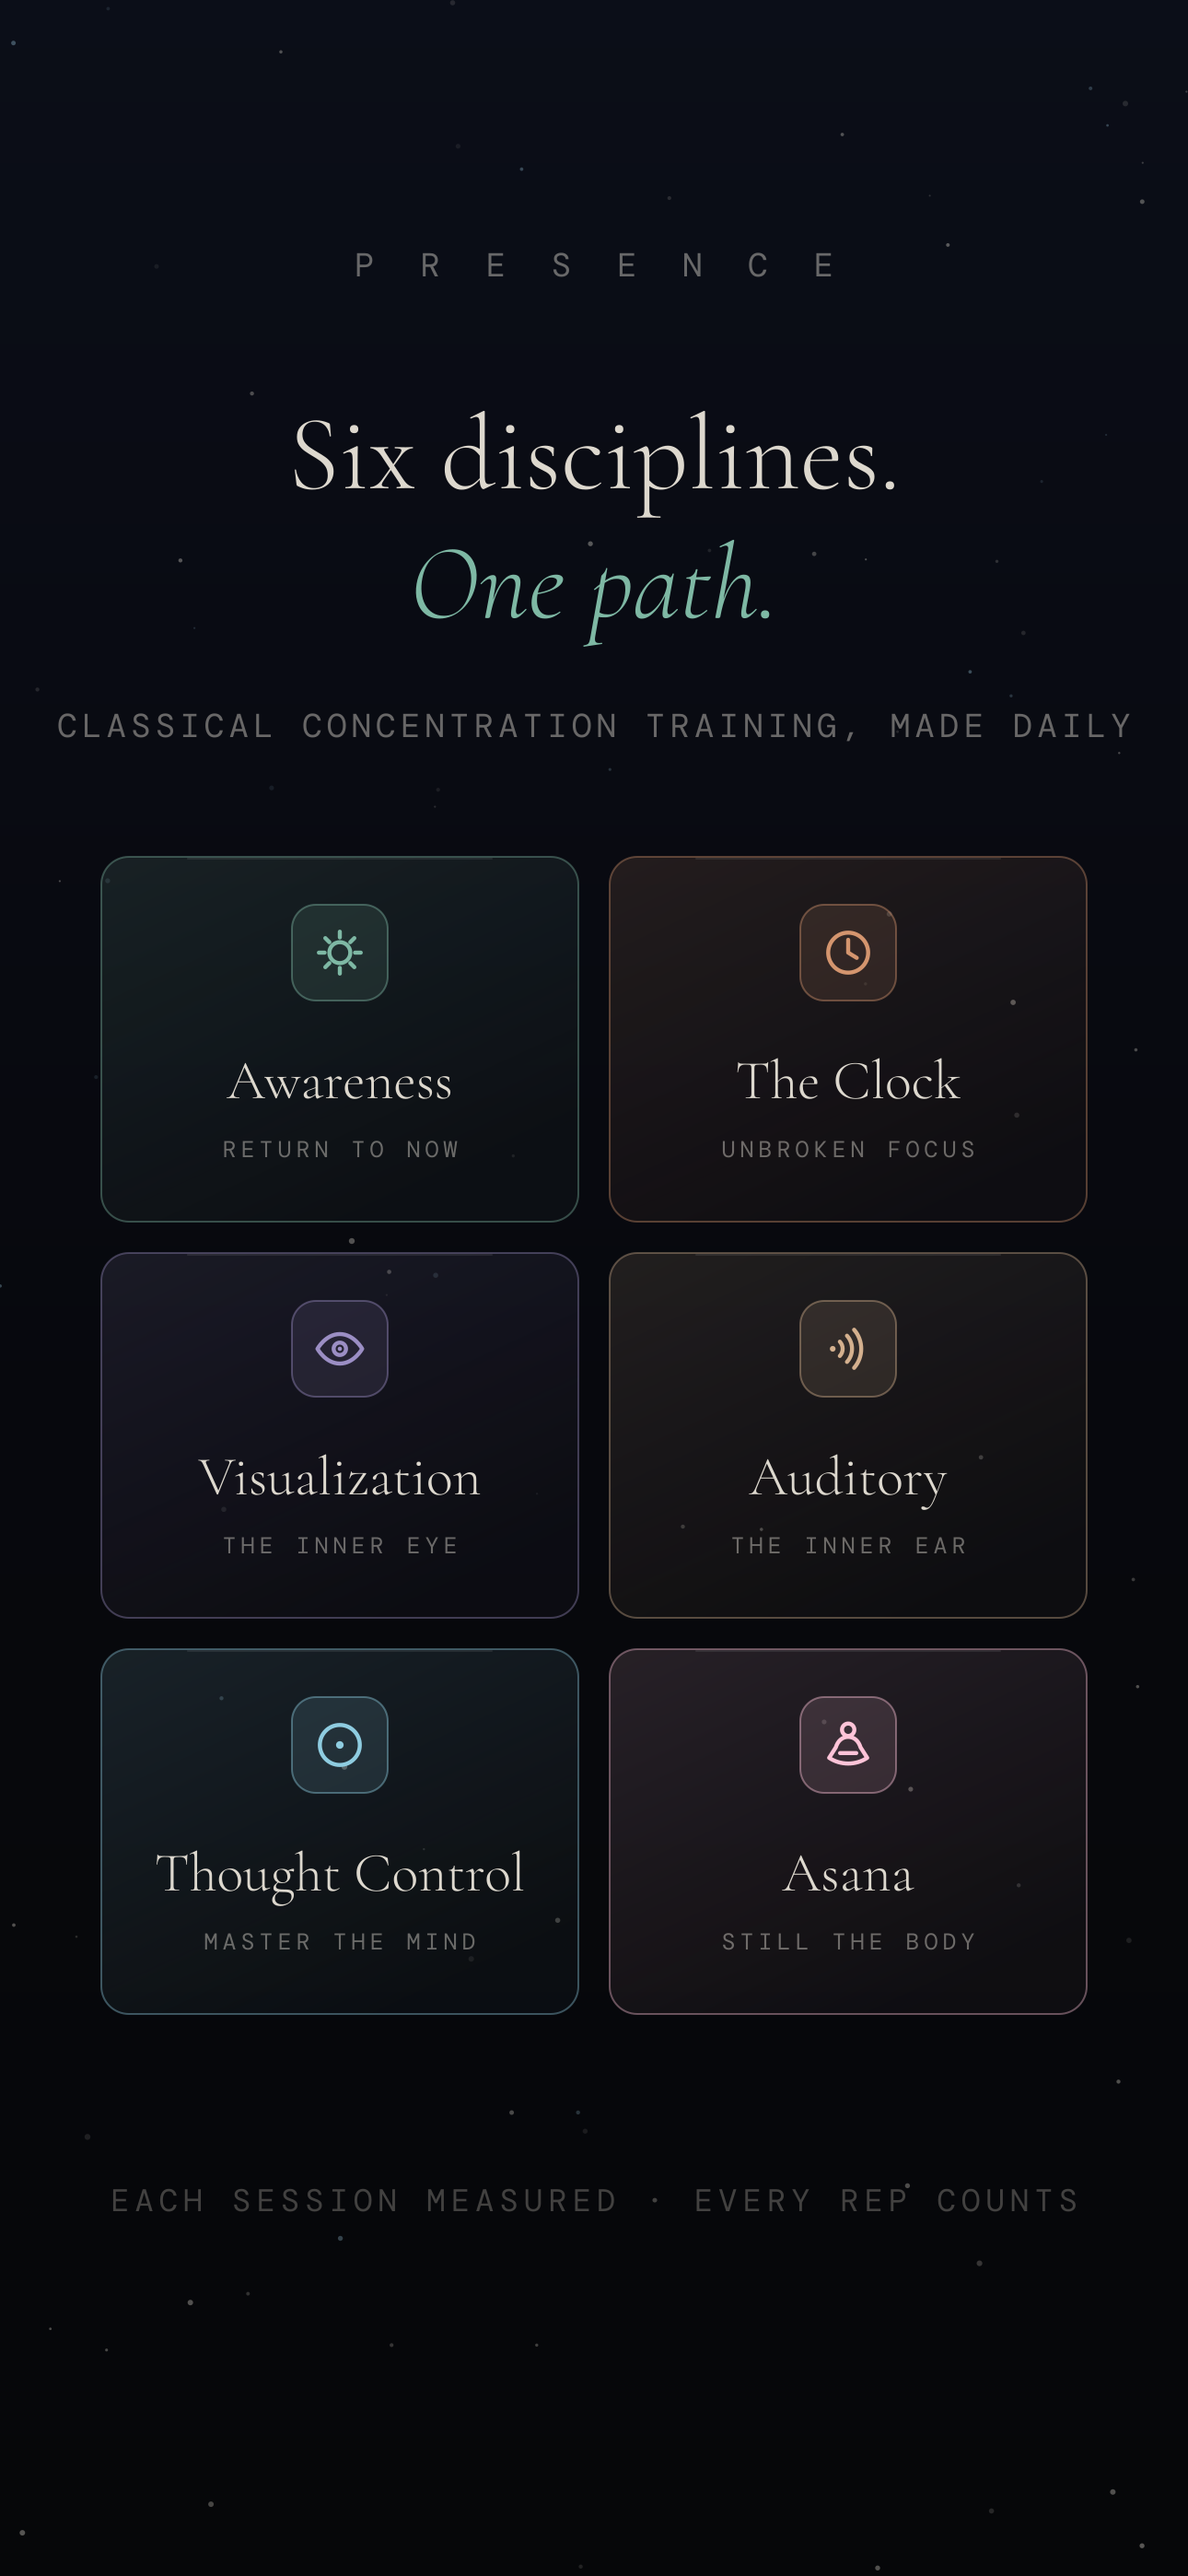
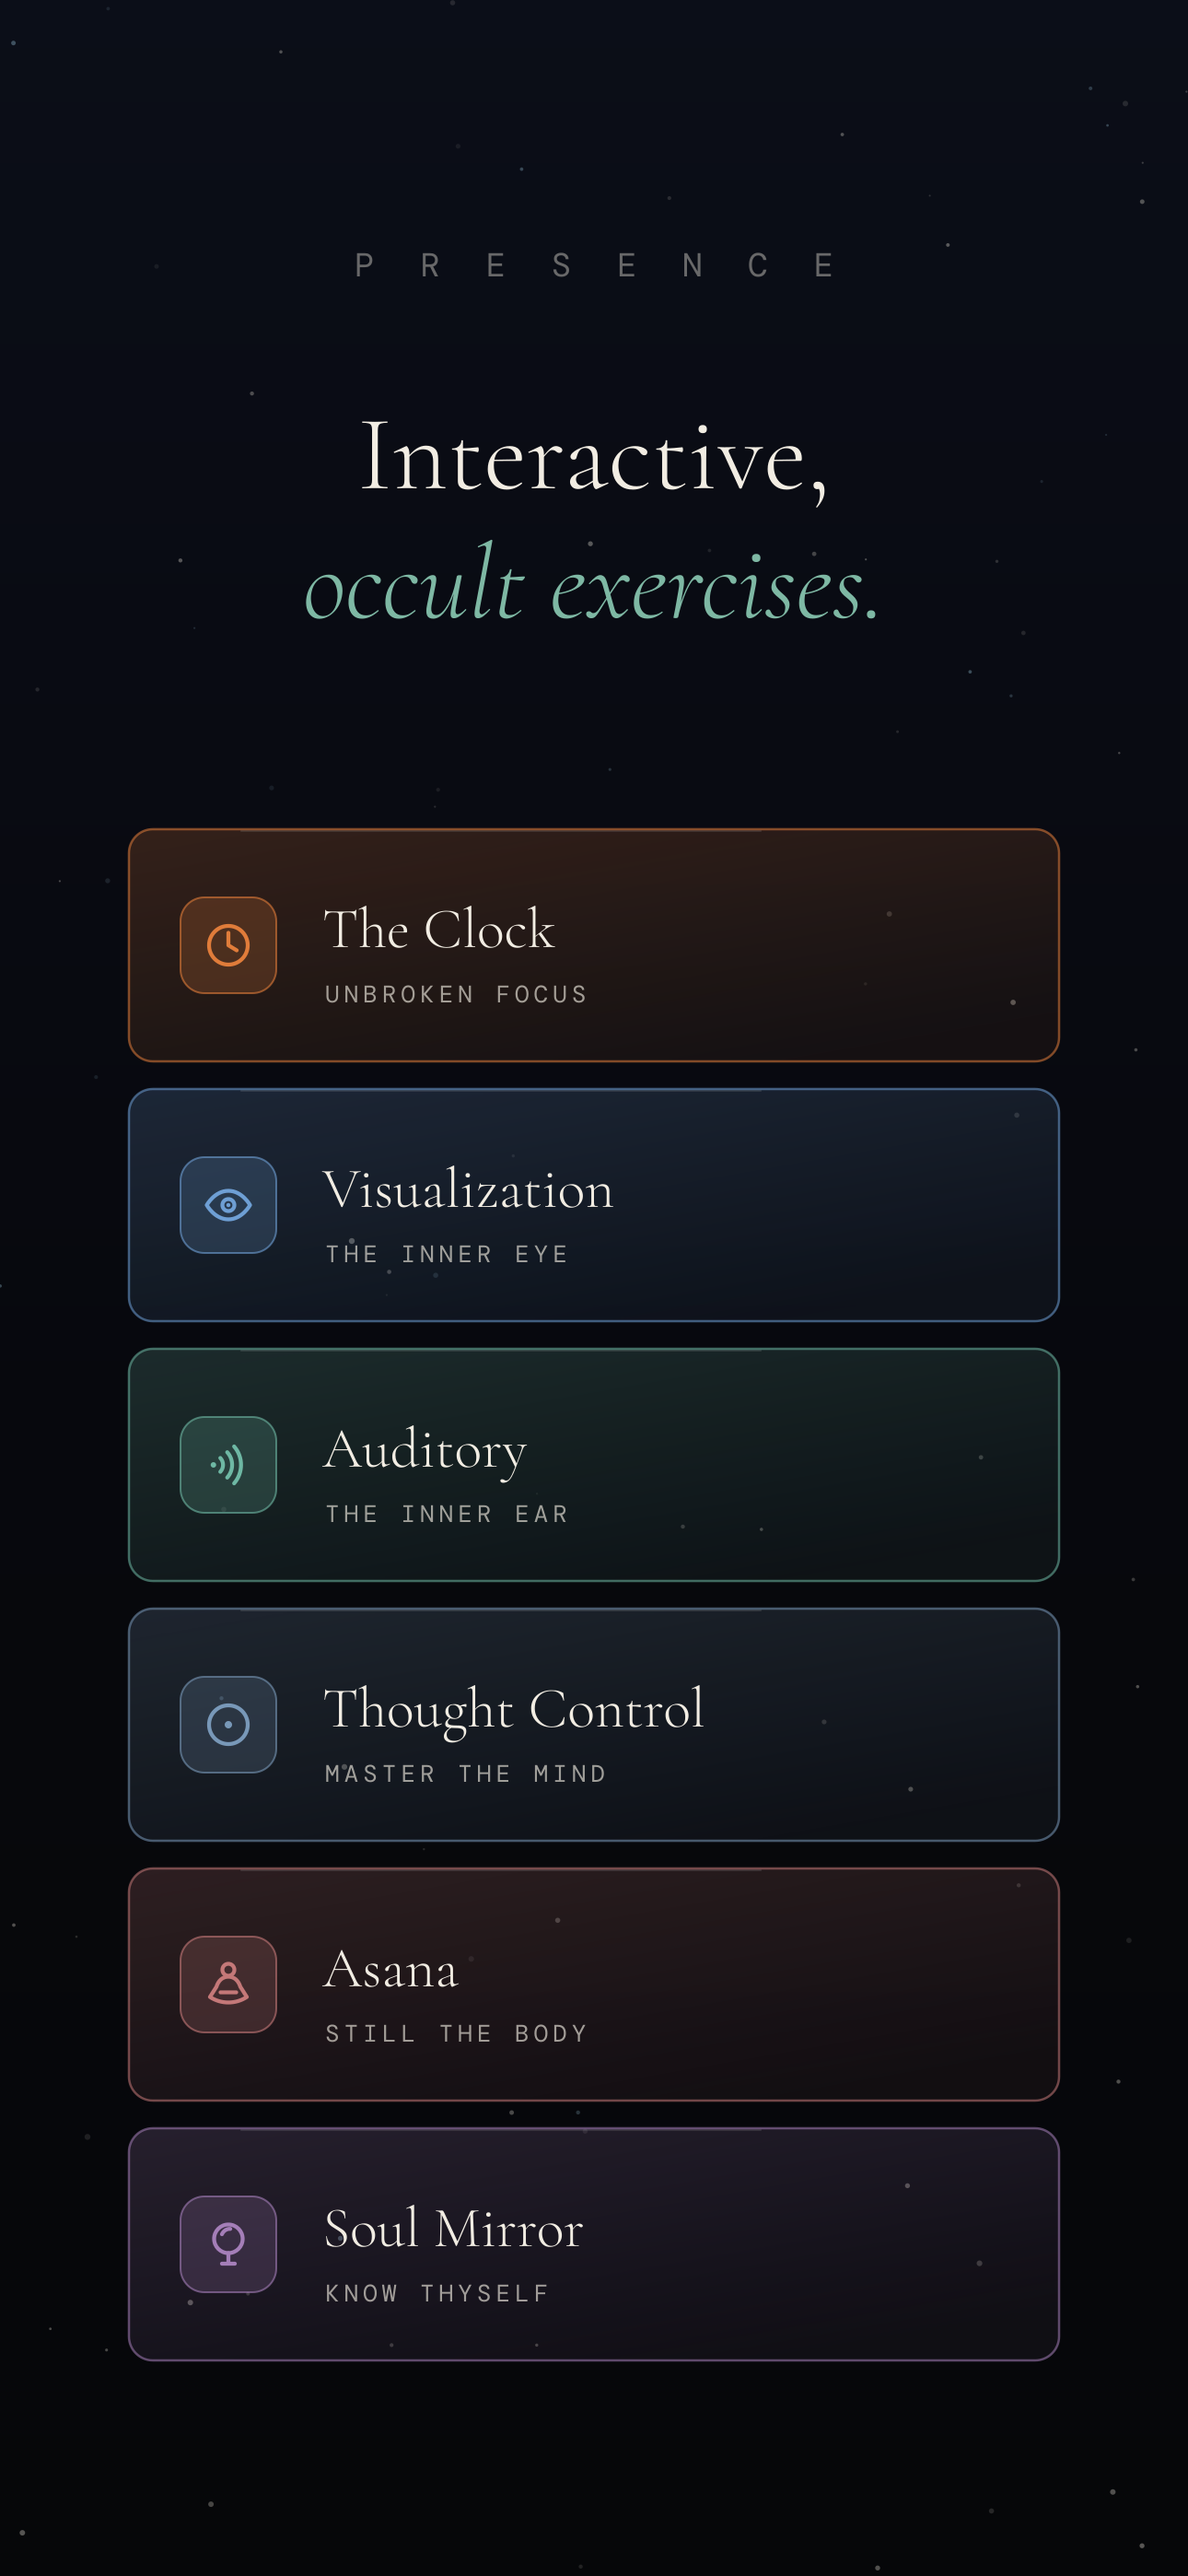
marketing: revision round — in-game card look, real regalia, new copy
- 02: 'Interactive, occult exercises.' — Awareness dropped (no in-game card);
  now the six actual exercise cards (Clock/Visual/Auditory/Thought/Asana/Soul
  Mirror) as full-width rows in their real in-game accent colours, much
  lighter tints, brighter ink.
- 03: Step V and Step X now wear the app's actual cumulative step regalia
  (triad shards, crown glow, polar pillars, element wheel; X adds the
  apotheosis mandala + mirror disc). Text lightened; X element wheel kept
  inside canvas.
- 04: ink lightened throughout; bottom italic line removed.
- 05: copy → 'Based on Franz Bardon's Hermetics.' / 'TEN STEPS · PRESTIGES ·
  EXERCISES' / 'Idle mechanics reinforce practice.'

diff --git a/marketing/generate.js b/marketing/generate.js
@@ -168,85 +168,110 @@ function discIcon(name, cx, cy, size, c) {
   if (name === 'visual')    inner = P('M2.6 12S6 5.8 12 5.8 21.4 12 21.4 12 18 18.2 12 18.2 2.6 12 2.6 12z') + C(12,12,2.6) + C(12,12,0.9,true);
   if (name === 'auditory')  inner = C(5.5,12,1.2,true) + P('M8.5 9a4.4 4.4 0 0 1 0 6') + P('M11.5 6.5a8.2 8.2 0 0 1 0 11') + P('M14.5 4a12.2 12.2 0 0 1 0 16');
   if (name === 'thought')   inner = C(12,12,8.4) + C(12,12,1.6,true);
+  if (name === 'soulmirror') inner = C(12,9.6,6.2) + P('M12 15.8v4.6M9.2 20.4h5.6') + P('M9.2 7.6c.7-1.5 2.1-2.4 3.6-2.3');
   if (name === 'asana')     inner = C(12,5.6,2.6) + P('M12 8.6c-2.6 0-4.4 1.8-5.2 4.4L4 17.4c2.4 1.6 5.2 2.4 8 2.4s5.6-.8 8-2.4l-2.8-4.4c-.8-2.6-2.6-4.4-5.2-4.4z') + P('M8.6 15.4h6.8');
   return `<g transform="translate(${cx - size / 2}, ${cy - size / 2}) scale(${s})">${inner}</g>`;
 }
 
-// ── card 2: six disciplines ──────────────────────────────────────────────────
+// ── card 2: the exercises, styled like the in-game cards ────────────────────
+
+const INK = '#f2ede3';
+const INK2 = 'rgba(232,227,216,0.66)';
 
 function card2() {
-  const tiles = [
-    { id:'awareness', name: 'Awareness',      sub: 'RETURN TO NOW',   c: ACCENT },
-    { id:'clock',     name: 'The Clock',      sub: 'UNBROKEN FOCUS',  c: AMBER },
-    { id:'visual',    name: 'Visualization',  sub: 'THE INNER EYE',   c: PURPLE },
-    { id:'auditory',  name: 'Auditory',       sub: 'THE INNER EAR',   c: '#d4b08e' },
-    { id:'thought',   name: 'Thought Control',sub: 'MASTER THE MIND', c: '#8ecce0' },
-    { id:'asana',     name: 'Asana',          sub: 'STILL THE BODY',  c: ROSE },
+  // In-game exercise cards: stacked full-width, per-exercise accent tint.
+  const rows = [
+    { id:'clock',      name: 'The Clock',       sub: 'UNBROKEN FOCUS',  c: '#e07c3a' },
+    { id:'visual',     name: 'Visualization',   sub: 'THE INNER EYE',   c: '#6e9fd4' },
+    { id:'auditory',   name: 'Auditory',        sub: 'THE INNER EAR',   c: '#6eb8a4' },
+    { id:'thought',    name: 'Thought Control', sub: 'MASTER THE MIND', c: '#7898b8' },
+    { id:'asana',      name: 'Asana',           sub: 'STILL THE BODY',  c: '#c47878' },
+    { id:'soulmirror', name: 'Soul Mirror',     sub: 'KNOW THYSELF',    c: '#a47eb8' },
   ];
-  const gx = 110, gw = W - gx * 2, gap = 34;
-  const tw = (gw - gap) / 2, th = 396;
+  const x = 140, w = W - 280, rh = 252, gap = 30;
   let defs = '', g = '';
-  tiles.forEach((t, i) => {
-    const col = i % 2, row = (i / 2) | 0;
-    const x = gx + col * (tw + gap), y = 930 + row * (th + gap);
-    defs += `<linearGradient id="t${i}g" x1="0" y1="0" x2="0.6" y2="1">
-      <stop offset="0" stop-color="${t.c}" stop-opacity="0.13"/>
-      <stop offset="1" stop-color="${t.c}" stop-opacity="0.03"/></linearGradient>`;
+  rows.forEach((r, i) => {
+    const y = 900 + i * (rh + gap);
+    defs += `<linearGradient id="r${i}g" x1="0" y1="0" x2="0.7" y2="1">
+      <stop offset="0" stop-color="${r.c}" stop-opacity="0.20"/>
+      <stop offset="1" stop-color="${r.c}" stop-opacity="0.06"/></linearGradient>`;
     g += `
-    <rect x="${x}" y="${y}" width="${tw}" height="${th}" rx="30" fill="url(#t${i}g)"/>
-    <rect x="${x}" y="${y}" width="${tw}" height="${th}" rx="30" fill="none" stroke="${t.c}" stroke-opacity="0.38" stroke-width="2"/>
-    <rect x="${x + tw * 0.18}" y="${y + 1}" width="${tw * 0.64}" height="2" fill="#ffffff" opacity="0.08"/>
-    <rect x="${x + tw / 2 - 52}" y="${y + 52}" width="104" height="104" rx="26" fill="${t.c}" opacity="0.13"/>
-    <rect x="${x + tw / 2 - 52}" y="${y + 52}" width="104" height="104" rx="26" fill="none" stroke="${t.c}" stroke-opacity="0.42" stroke-width="2"/>
-    ${discIcon(t.id, x + tw / 2, y + 104, 62, t.c)}
-    ${serif(x + tw / 2, y + 262, 60, TEXT, t.name)}
-    ${mono(x + tw / 2, y + 326, 25, MUTED, t.sub, 5)}`;
+    <rect x="${x}" y="${y}" width="${w}" height="${rh}" rx="26" fill="url(#r${i}g)"/>
+    <rect x="${x}" y="${y}" width="${w}" height="${rh}" rx="26" fill="none" stroke="${r.c}" stroke-opacity="0.55" stroke-width="2.5"/>
+    <rect x="${x + w * 0.12}" y="${y + 1}" width="${w * 0.56}" height="2" fill="#ffffff" opacity="0.10"/>
+    <rect x="${x + 56}" y="${y + rh / 2 - 52}" width="104" height="104" rx="26" fill="${r.c}" opacity="0.20"/>
+    <rect x="${x + 56}" y="${y + rh / 2 - 52}" width="104" height="104" rx="26" fill="none" stroke="${r.c}" stroke-opacity="0.6" stroke-width="2"/>
+    ${discIcon(r.id, x + 108, y + rh / 2, 60, r.c)}
+    ${serif(x + 210, y + rh / 2 + 2, 62, INK, r.name, 'start')}
+    ${mono(x + 213, y + rh / 2 + 62, 26, INK2, r.sub, 5, 'start')}`;
   });
   return shell(`
   <defs>${defs}</defs>
   ${wordmark(300)}
-  ${serif(W / 2, 530, 116, TEXT, 'Six disciplines.')}
-  ${serif(W / 2, 670, 116, ACCENT, 'One path.', 'middle', 'font-style="italic"')}
-  ${mono(W / 2, 800, 36, MUTED, 'CLASSICAL CONCENTRATION TRAINING, MADE DAILY', 5)}
+  ${serif(W / 2, 530, 116, INK, 'Interactive,')}
+  ${serif(W / 2, 670, 116, ACCENT, 'occult exercises.', 'middle', 'font-style="italic"')}
   ${g}
-  ${mono(W / 2, 2400, 34, FAINT, 'EACH SESSION MEASURED · EVERY REP COUNTS', 6)}
   `, 19);
 }
 
-// ── card 3: meet Omnia — she visibly grows ───────────────────────────────────
+// ── card 3: meet Omnia — grown with the app's real step regalia ──────────────
 
 function card3() {
-  const BASE = 1760; // shared baseline for the three crystals
+  const BASE = 1760;
   const forms = [
     { cx: 250,  w: 230, label: 'DAY ONE' },
     { cx: 645,  w: 330, label: 'STEP V' },
     { cx: 1035, w: 470, label: 'STEP X' },
   ];
   const at = (idp, f) => crystalAt(idp, f.cx, BASE - (130 * (f.w / 80)) / 2, f.w);
+  const midCy = BASE - 130 * (forms[1].w / 80) / 2;
+  const bigCy = BASE - 130 * (forms[2].w / 80) / 2;
+  const cx2 = forms[1].cx, cx3 = forms[2].cx;
+  const top3 = BASE - 130 * (forms[2].w / 80);
 
-  // Step V adornment: the triad shards on a tilted orbit ring.
+  // In-game tiers, cumulative:
+  // II triad shards · III crown glow · IV polar pillars · V element wheel
   const shardCols = ['#e8b8a0', '#c4a8d4', '#a8c8e8'];
   const orbit = (cx, cy, rx, ry) => {
-    let o = `<ellipse cx="${cx}" cy="${cy}" rx="${rx}" ry="${ry}" fill="none" stroke="#b8eaff" stroke-opacity="0.25" stroke-width="1.6" stroke-dasharray="3 9"/>`;
+    let o = `<ellipse cx="${cx}" cy="${cy}" rx="${rx}" ry="${ry}" fill="none" stroke="#b8eaff" stroke-opacity="0.3" stroke-width="1.6" stroke-dasharray="3 9"/>`;
     [[0.06, -1], [0.5, 1.06], [0.88, -0.72]].forEach((p, i) => {
       const a = p[0] * Math.PI * 2, sx = cx + Math.cos(a) * rx, sy = cy + Math.sin(a) * ry * p[1];
       o += `<polygon points="${sx},${sy - 13} ${sx + 11},${sy - 4} ${sx + 7},${sy + 12} ${sx - 7},${sy + 12} ${sx - 11},${sy - 4}" fill="${shardCols[i]}" opacity="0.95" filter="url(#soft)"/>`;
     });
     return o;
   };
-
-  // Step X adornment: gold crown-glow + drawn diadem stars + polar pillars.
-  const cx3 = forms[2].cx, top3 = BASE - 130 * (forms[2].w / 80);
-  const crownGlow = `<ellipse cx="${cx3}" cy="${top3 + 8}" rx="120" ry="74" fill="${GOLD}" opacity="0.16" filter="url(#soft)"/>`;
+  const elements = (cx, cy, rx, ry, r) => {
+    const cols = ['#ff8b4d', '#f5e29a', '#6bb8ff', '#8fc880']; // fire air water earth
+    let e = `<ellipse cx="${cx}" cy="${cy}" rx="${rx}" ry="${ry}" fill="none" stroke="#f5e29a" stroke-opacity="0.18" stroke-width="1.4"/>`;
+    [[0, -1], [1, 0], [0, 1], [-1, 0]].forEach((d, i) => {
+      const ex = cx + d[0] * rx, ey = cy + d[1] * ry;
+      e += `<circle cx="${ex}" cy="${ey}" r="${r}" fill="${cols[i]}" filter="url(#soft)"/>
+            <circle cx="${ex}" cy="${ey}" r="${r * 1.9}" fill="${cols[i]}" opacity="0.14"/>`;
+    });
+    return e;
+  };
+  const crownGlow = (cx, cy, rx, ry, o) =>
+    `<ellipse cx="${cx}" cy="${cy}" rx="${rx}" ry="${ry}" fill="${GOLD}" opacity="${o}" filter="url(#soft)"/>`;
+  const pillar = (px, h) => `<rect x="${px - 5}" y="${BASE - h - 50}" width="10" height="${h}" rx="5" fill="url(#pillarG)" opacity="0.7"/>`;
+  // X: apotheosis mandala + mirror disc
+  const apo = () => {
+    let a = '';
+    [[210, 0.28], [260, 0.20], [310, 0.13]].forEach((rr) => {
+      a += `<circle cx="${cx3}" cy="${bigCy}" r="${rr[0]}" fill="none" stroke="${GOLD}" stroke-opacity="${rr[1]}" stroke-width="1.6"/>`;
+    });
+    for (let i = 0; i < 12; i++) {
+      const an = (i / 12) * Math.PI * 2;
+      a += `<circle cx="${cx3 + Math.cos(an) * 310}" cy="${bigCy + Math.sin(an) * 310}" r="5" fill="#ffeec8" opacity="0.8"/>`;
+    }
+    return a;
+  };
   const diadem =
     star4(cx3 - 84, top3 + 30, 12, '#f4e8c0', 0.75) +
     star4(cx3 - 44, top3 + 2, 15, '#f4e8c0', 0.9) +
     star4(cx3, top3 - 12, 19, '#fff2cf', 1) +
     star4(cx3 + 44, top3 + 2, 15, '#f4e8c0', 0.9) +
     star4(cx3 + 84, top3 + 30, 12, '#f4e8c0', 0.75);
-  const pillar = (px) => `<rect x="${px - 5}" y="${BASE - 430}" width="10" height="380" rx="5" fill="url(#pillarG)" opacity="0.7"/>`;
 
-  // palette shown as cut gems, not flat dots
   const palette = ['#b8eaff', '#ffc4d8', '#f0d39a', '#c4a8d4', '#98d8bd', '#e8554f'];
   let gems = '';
   palette.forEach((c, i) => {
@@ -264,22 +289,29 @@ function card3() {
   </defs>
   <ellipse cx="${W / 2}" cy="1440" rx="640" ry="660" fill="url(#glow)"/>
   ${wordmark(300)}
-  ${serif(W / 2, 530, 124, TEXT, `Meet <tspan fill="${BLUE}">Omnia</tspan>.`)}
-  ${serif(W / 2, 680, 72, MUTED, 'A living guide that grows as you do.', 'middle', 'font-style="italic"')}
+  ${serif(W / 2, 530, 124, INK, `Meet <tspan fill="${BLUE}">Omnia</tspan>.`)}
+  ${serif(W / 2, 680, 72, 'rgba(232,227,216,0.72)', 'A living guide that grows as you do.', 'middle', 'font-style="italic"')}
   <g opacity="0.8">${at('c3a', forms[0])}</g>
-  ${orbit(forms[1].cx, BASE - 130 * (forms[1].w / 80) / 2, 250, 84)}
+  ${elements(cx2, midCy, 190, 64, 11)}
+  ${orbit(cx2, midCy, 152, 52)}
+  ${pillar(cx2 - 128, 250)}${pillar(cx2 + 128, 250)}
+  ${crownGlow(cx2, midCy - 130 * (forms[1].w / 80) / 2 + 6, 68, 40, 0.13)}
   ${at('c3b', forms[1])}
-  ${pillar(cx3 - 185)}${pillar(cx3 + 185)}
+  ${apo()}
+  ${elements(cx3, bigCy, 208, 76, 13)}
+  ${pillar(cx3 - 185, 380)}${pillar(cx3 + 185, 380)}
   ${at('c3c', forms[2])}
-  ${crownGlow}${diadem}
+  ${crownGlow(cx3, top3 + 8, 120, 74, 0.16)}
+  ${diadem}
+  <ellipse cx="${cx3}" cy="${BASE + 26}" rx="235" ry="26" fill="#a0d2f0" opacity="0.10"/>
   <ellipse cx="${W / 2}" cy="${BASE + 46}" rx="480" ry="30" fill="#8ecce0" opacity="0.06"/>
-  ${mono(forms[0].cx, BASE + 120, 26, FAINT, forms[0].label, 5)}
-  ${mono(forms[1].cx, BASE + 120, 26, MUTED, forms[1].label, 5)}
+  ${mono(forms[0].cx, BASE + 120, 26, INK2, forms[0].label, 5)}
+  ${mono(forms[1].cx, BASE + 120, 26, INK2, forms[1].label, 5)}
   ${mono(forms[2].cx, BASE + 120, 26, GOLD, forms[2].label, 5)}
   ${gems}
-  ${mono(W / 2, 2190, 32, MUTED, 'NEW FORMS · COLORS · COMPANIONS', 7)}
-  ${serif(W / 2, 2360, 70, TEXT, 'Practice earns akasha — spend it', 'middle')}
-  ${serif(W / 2, 2445, 70, TEXT, `to shape your <tspan fill="${ACCENT}" font-style="italic">guide</tspan>.`, 'middle')}
+  ${mono(W / 2, 2190, 32, INK2, 'NEW FORMS · COLORS · COMPANIONS', 7)}
+  ${serif(W / 2, 2360, 70, INK, 'Practice earns akasha — spend it', 'middle')}
+  ${serif(W / 2, 2445, 70, INK, `to shape your <tspan fill="${ACCENT}" font-style="italic">guide</tspan>.`, 'middle')}
   `, 41);
 }
 
@@ -295,7 +327,7 @@ function card4() {
   const x = 110, w = W - 220, rh = 300, gap = 40;
   let g = '';
   rows.forEach((r, i) => {
-    const y = 1010 + i * (rh + gap);
+    const y = 1060 + i * (rh + gap);
     const chipX = x + 66, chipY = y + 68;
     const badge = r.badge
       ? `<rect x="${x + w - 328}" y="${y + 58}" width="266" height="60" rx="30" fill="${GOLD}" opacity="0.10"/>
@@ -315,19 +347,18 @@ function card4() {
     <rect x="${chipX - 48}" y="${chipY - 48}" width="96" height="96" rx="24" fill="none" stroke="${r.c}" stroke-opacity="0.45" stroke-width="2"/>
     <text x="${chipX}" y="${chipY + 20}" font-family="DejaVu Sans" font-size="52" fill="${r.c}" text-anchor="middle">${r.glyph}</text>
     ${doneMark}
-    ${serif(x + 190, y + 100, 60, TEXT, r.name, 'start')}
-    ${mono(x + 192, y + 158, 27, MUTED, r.meta, 4, 'start')}
+    ${serif(x + 190, y + 100, 60, INK, r.name, 'start')}
+    ${mono(x + 192, y + 158, 27, INK2, r.meta, 4, 'start')}
     ${badge}
     <rect x="${x + 190}" y="${y + 210}" width="${w - 310}" height="8" rx="4" fill="rgba(221,216,206,0.10)"/>
     <rect x="${x + 190}" y="${y + 210}" width="${(w - 310) * r.prog}" height="8" rx="4" fill="${r.c}" opacity="0.85"/>`;
   });
   return shell(`
   ${wordmark(300)}
-  ${serif(W / 2, 530, 116, TEXT, 'A path paced')}
-  ${serif(W / 2, 670, 116, TEXT, `to <tspan fill="${ACCENT}" font-style="italic">you</tspan>.`)}
-  ${mono(W / 2, 800, 36, MUTED, 'OMNIA BUILDS EACH DAY AROUND YOUR NUMBERS', 5)}
+  ${serif(W / 2, 530, 116, INK, 'A path paced')}
+  ${serif(W / 2, 670, 116, INK, `to <tspan fill="${ACCENT}" font-style="italic">you</tspan>.`)}
+  ${mono(W / 2, 800, 36, INK2, 'OMNIA BUILDS EACH DAY AROUND YOUR NUMBERS', 5)}
   ${g}
-  ${serif(W / 2, 2560, 70, MUTED, 'It never rushes. It never lets you stall.', 'middle', 'font-style="italic"')}
   `, 67);
 }
 
@@ -386,15 +417,14 @@ function card5() {
   <ellipse cx="${cx}" cy="${cy}" rx="660" ry="680" fill="url(#glow)"/>
   <ellipse cx="${cx}" cy="${cy}" rx="420" ry="440" fill="${GOLD}" opacity="0.05"/>
   ${wordmark(300)}
-  ${serif(W / 2, 530, 116, TEXT, 'A practice with')}
-  ${serif(W / 2, 670, 116, GOLD, 'an endgame.', 'middle', 'font-style="italic"')}
-  ${mono(W / 2, 800, 36, MUTED, 'TEN STEPS · THREE TURNINGS · TEN SPHERES', 5)}
+  ${serif(W / 2, 530, 108, INK, 'Based on Franz Bardon’s')}
+  ${serif(W / 2, 670, 116, GOLD, 'Hermetics.', 'middle', 'font-style="italic"')}
+  ${mono(W / 2, 800, 36, INK2, 'TEN STEPS · PRESTIGES · EXERCISES', 5)}
   ${ring}
   <g transform="translate(${cx - 150}, ${cy - 262}) scale(3.75)">${goldCrystal('g5')}</g>
   ${pips}
   ${chips}
-  ${serif(W / 2, 2500, 68, TEXT, 'Prestige rebuilds the path — deeper, faster —', 'middle')}
-  ${serif(W / 2, 2585, 68, TEXT, `until the <tspan fill="${GOLD}" font-style="italic">spheres themselves</tspan> open.`, 'middle')}
+  ${serif(W / 2, 2540, 72, INK, 'Idle mechanics reinforce practice.', 'middle')}
   `, 83);
 }
 
